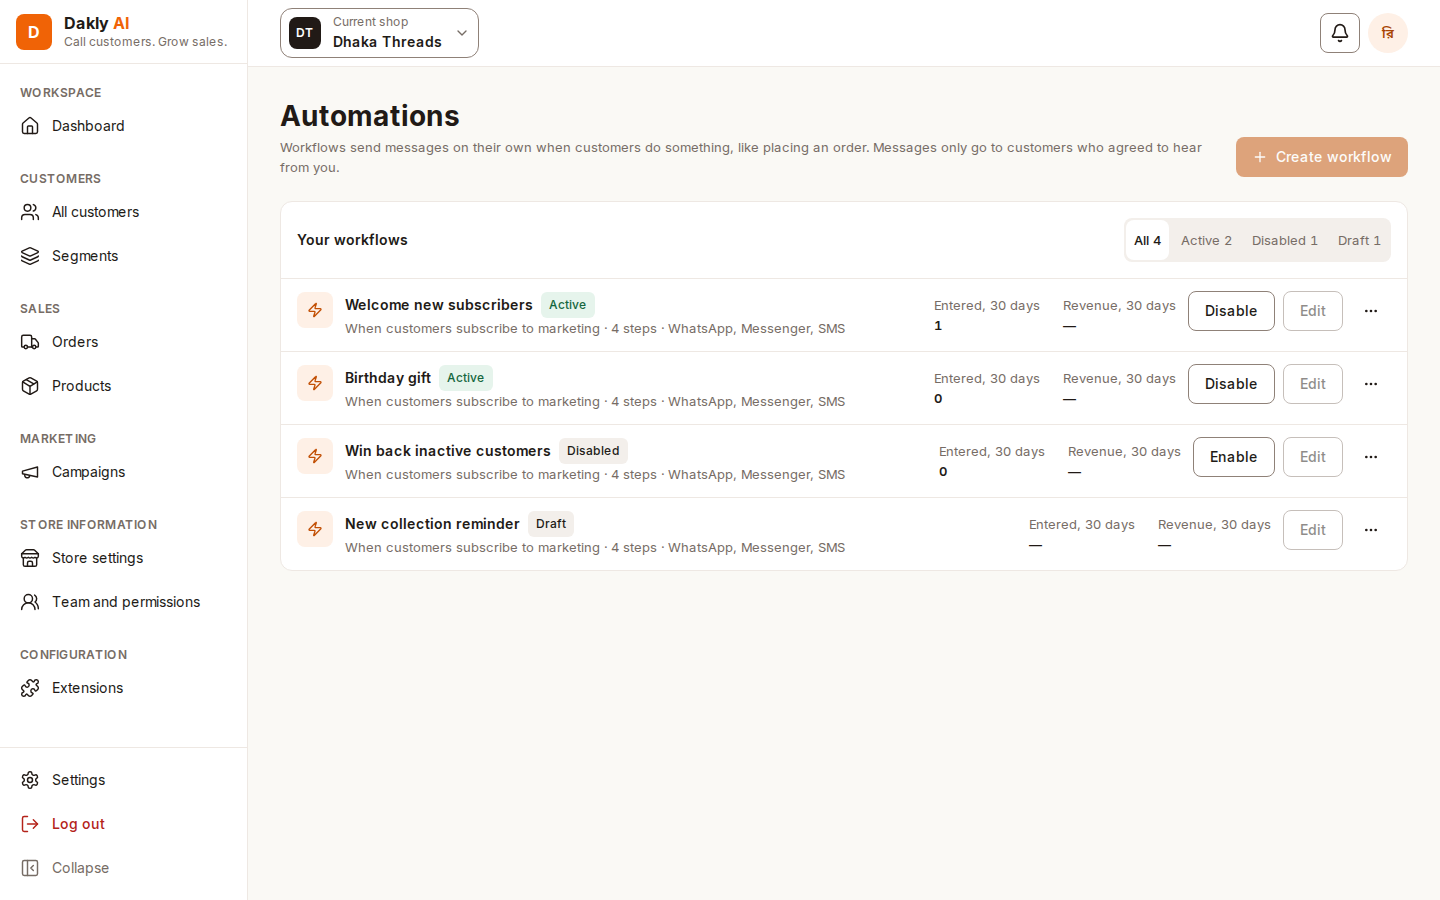
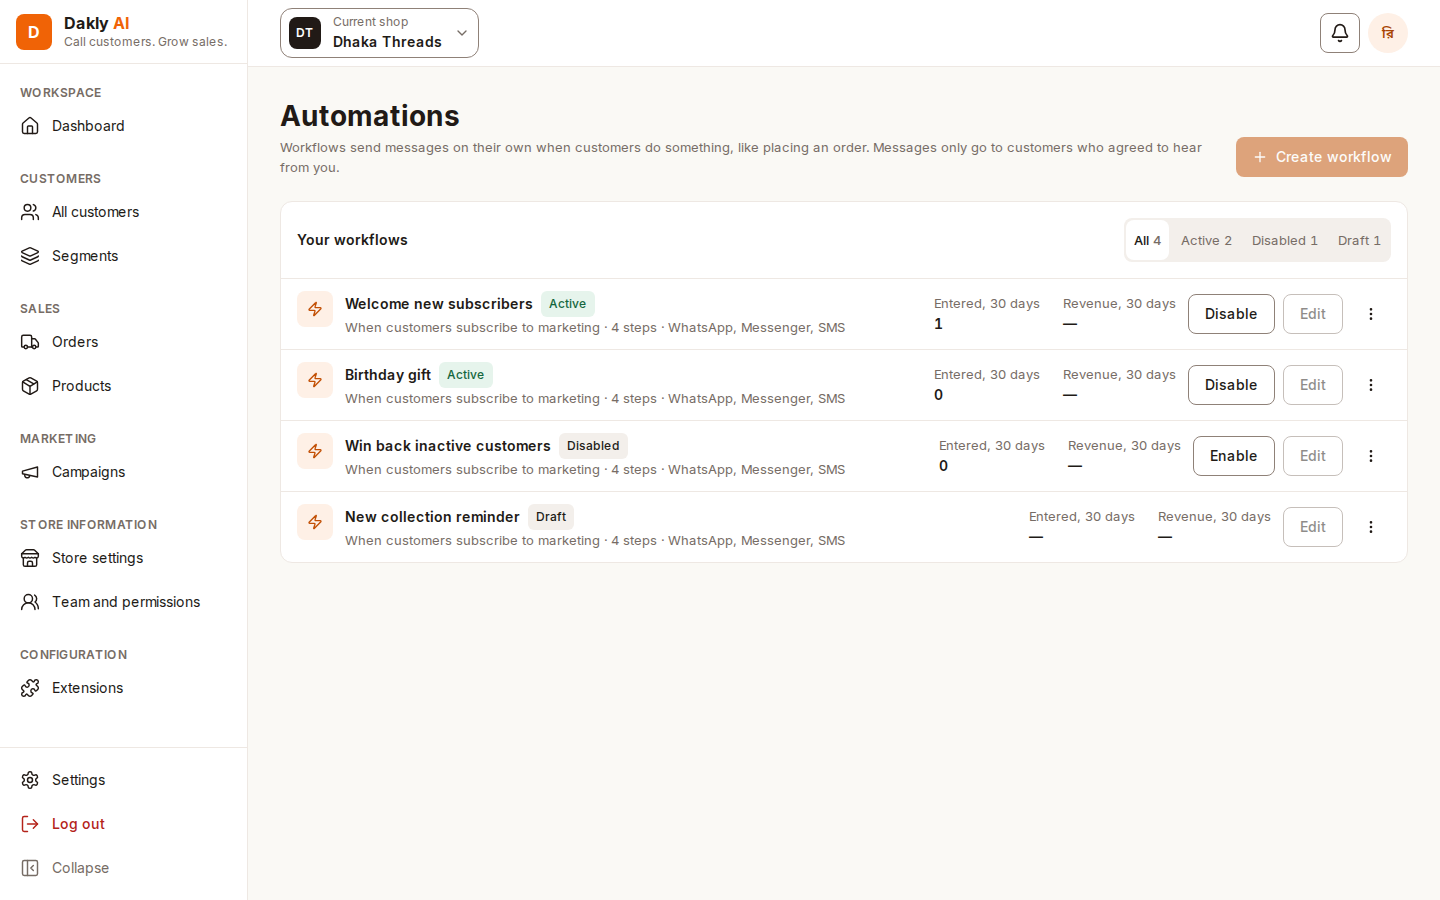
fix(camp-12): separate workflow row actions and match list details

diff --git a/apps/web/src/features/automations/components/automation-row.tsx b/apps/web/src/features/automations/components/automation-row.tsx
@@ -1,6 +1,6 @@
 'use client';
 
-import { Ellipsis, Zap } from 'lucide-react';
+import { EllipsisVertical, Zap } from 'lucide-react';
 import { useState } from 'react';
 
 import type { AutomationListItem } from '@dakly/contracts/automations';
@@ -14,7 +14,7 @@ import {
   DropdownMenuTrigger,
 } from '@dakly/ui/dropdown-menu';
 
-import { useAutomationAction } from '../api/automation-actions';
+import { useChangeAutomationStatus, useDuplicateAutomation } from '../api/automation-actions';
 import { channelLabels, statusLabels, triggerLabels } from '../automation-labels';
 
 export function AutomationRow({
@@ -51,11 +51,13 @@ export function AutomationRow({
       <dl className="grid grid-cols-2 gap-4 text-sm">
         <div>
           <dt className="text-text-muted">Entered, 30 days</dt>
-          <dd className="font-semibold tabular-nums">{draft ? '—' : workflow.enteredLast30Days}</dd>
+          <dd className="text-base font-semibold tabular-nums">
+            {draft ? '—' : workflow.enteredLast30Days}
+          </dd>
         </div>
         <div>
           <dt className="text-text-muted">Revenue, 30 days</dt>
-          <dd className="font-semibold">—</dd>
+          <dd className="text-base font-semibold">—</dd>
         </div>
       </dl>
       {canEdit && <WorkflowActions workflow={workflow} />}
@@ -65,7 +67,9 @@ export function AutomationRow({
 
 function WorkflowActions({ workflow }: { workflow: AutomationListItem }) {
   const [confirm, setConfirm] = useState(false);
-  const action = useAutomationAction();
+  const status = useChangeAutomationStatus();
+  const duplicate = useDuplicateAutomation();
+  const error = status.error ?? duplicate.error;
   const active = workflow.status === 'active';
   const draft = workflow.status === 'draft';
   return (
@@ -74,8 +78,9 @@ function WorkflowActions({ workflow }: { workflow: AutomationListItem }) {
         {!draft && (
           <Button
             variant="secondary"
-            loading={action.isPending && !confirm}
-            onClick={() => action.mutate({ id: workflow.id, action: active ? 'pause' : 'enable' })}
+            loading={status.isPending}
+            disabled={duplicate.isPending}
+            onClick={() => status.mutate({ id: workflow.id, action: active ? 'pause' : 'enable' })}
           >
             {active ? 'Disable' : 'Enable'}
           </Button>
@@ -86,60 +91,48 @@ function WorkflowActions({ workflow }: { workflow: AutomationListItem }) {
 
         <WorkflowMenu
           workflow={workflow}
-          action={action}
-          onDelete={() => {
-            action.reset();
-            setConfirm(true);
-          }}
+          duplicate={duplicate}
+          disabled={status.isPending || duplicate.isPending}
+          onDelete={() => setConfirm(true)}
         />
       </div>
-      {action.isError && !confirm && (
+      {error && (
         <p role="alert" className="text-danger">
-          {action.error.message}
+          {error.message}
         </p>
       )}
-      <DeleteWorkflow
-        workflow={workflow}
-        action={action}
-        open={confirm}
-        onClose={() => setConfirm(false)}
-      />
+      {confirm && <DeleteWorkflow workflow={workflow} onClose={() => setConfirm(false)} />}
     </div>
   );
 }
 
 function WorkflowMenu({
   workflow,
-  action,
+  duplicate,
+  disabled,
   onDelete,
 }: {
   workflow: AutomationListItem;
-  action: ReturnType<typeof useAutomationAction>;
+  duplicate: ReturnType<typeof useDuplicateAutomation>;
+  disabled: boolean;
   onDelete: () => void;
 }) {
   return (
     <DropdownMenu>
-      <DropdownMenuTrigger asChild disabled={action.isPending}>
+      <DropdownMenuTrigger asChild disabled={disabled}>
         <Button
           variant="secondary"
           aria-label={`Actions for ${workflow.name}`}
           className="border-transparent px-2"
         >
-          <Ellipsis size={16} aria-hidden="true" />
+          <EllipsisVertical size={16} aria-hidden="true" />
         </Button>
       </DropdownMenuTrigger>
       <DropdownMenuContent>
-        <DropdownMenuItem
-          disabled={action.isPending}
-          onSelect={() =>
-            action.mutate({
-              draft: { name: `${workflow.name.slice(0, 75)} copy`, graph: workflow.graph },
-            })
-          }
-        >
+        <DropdownMenuItem disabled={disabled} onSelect={() => duplicate.mutate(workflow)}>
           Duplicate
         </DropdownMenuItem>
-        <DropdownMenuItem disabled={action.isPending} onSelect={onDelete}>
+        <DropdownMenuItem disabled={disabled} onSelect={onDelete}>
           Delete
         </DropdownMenuItem>
       </DropdownMenuContent>
@@ -149,34 +142,31 @@ function WorkflowMenu({
 
 function DeleteWorkflow({
   workflow,
-  action,
-  open,
   onClose,
 }: {
   workflow: AutomationListItem;
-  action: ReturnType<typeof useAutomationAction>;
-  open: boolean;
   onClose: () => void;
 }) {
+  const archive = useChangeAutomationStatus();
   return (
     <Dialog
-      open={open}
-      onClose={() => onClose()}
-      closeDisabled={action.isPending}
+      open
+      onClose={onClose}
+      closeDisabled={archive.isPending}
       title={`Delete ${workflow.name}?`}
     >
       <Button
         variant="danger"
-        loading={action.isPending}
+        loading={archive.isPending}
         onClick={() =>
-          action.mutate({ id: workflow.id, action: 'archive' }, { onSuccess: () => onClose() })
+          archive.mutate({ id: workflow.id, action: 'archive' }, { onSuccess: () => onClose() })
         }
       >
         Delete workflow
       </Button>
-      {action.isError && (
+      {archive.isError && (
         <p role="alert" className="mt-3 text-danger">
-          {action.error.message}
+          {archive.error.message}
         </p>
       )}
     </Dialog>

diff --git a/apps/web/src/features/automations/api/automation-actions.ts b/apps/web/src/features/automations/api/automation-actions.ts
@@ -1,23 +1,35 @@
 import { useMutation, useQueryClient } from '@tanstack/react-query';
 
-import type { AutomationResponse, CreateAutomationInput } from '@dakly/contracts/automations';
+import {
+  AUTOMATION_NAME_MAX,
+  type AutomationListItem,
+  type AutomationResponse,
+} from '@dakly/contracts/automations';
 
 import { automationKeys } from './automations';
 import { useStoreRequest } from '@/lib/store-request';
 
-export function useAutomationAction() {
+export function useChangeAutomationStatus() {
   const { contextTag, request } = useStoreRequest();
   const client = useQueryClient();
   return useMutation({
-    mutationFn: (
-      input:
-        { id: string; action: 'enable' | 'pause' | 'archive' } | { draft: CreateAutomationInput },
-    ) =>
-      'draft' in input
-        ? request<AutomationResponse>('/automations', { method: 'POST', body: input.draft })
-        : request<AutomationResponse | undefined>(`/automations/${input.id}/${input.action}`, {
-            method: 'POST',
-          }),
+    mutationFn: ({ id, action }: { id: string; action: 'enable' | 'pause' | 'archive' }) =>
+      request(`/automations/${id}/${action}`, { method: 'POST' }),
+    onSuccess: () => client.invalidateQueries({ queryKey: automationKeys.all(contextTag) }),
+  });
+}
+
+export function useDuplicateAutomation() {
+  const { contextTag, request } = useStoreRequest();
+  const client = useQueryClient();
+  return useMutation({
+    mutationFn: ({ name, graph }: Pick<AutomationListItem, 'name' | 'graph'>) => {
+      const suffix = ' copy';
+      return request<AutomationResponse>('/automations', {
+        method: 'POST',
+        body: { name: name.slice(0, AUTOMATION_NAME_MAX - suffix.length) + suffix, graph },
+      });
+    },
     onSuccess: () => client.invalidateQueries({ queryKey: automationKeys.all(contextTag) }),
   });
 }

diff --git a/apps/web/e2e/automation-list.spec.ts b/apps/web/e2e/automation-list.spec.ts
@@ -90,6 +90,35 @@ test('lists workflows, counts recent entries and switches tabs and status', asyn
     await page.getByRole('tab', { name: 'Disabled 2' }).click();
     await welcome.getByRole('button', { name: 'Enable' }).click();
     await expect(page.getByRole('tab', { name: 'Disabled 1' })).toBeVisible();
+    await page.getByRole('tab', { name: 'All 4' }).click();
+    let releaseCopy!: () => void;
+    const copyGate = new Promise<void>((resolve) => {
+      releaseCopy = resolve;
+    });
+    await page.route('**/api/automations', async (route) => {
+      if (route.request().method() === 'POST') await copyGate;
+      await route.continue();
+    });
+    const copied = page.waitForResponse(
+      (response) =>
+        response.url().endsWith('/api/automations') && response.request().method() === 'POST',
+    );
+    await welcome.getByRole('button', { name: `Actions for ${active.name}` }).click();
+    try {
+      await page.getByRole('menuitem', { name: 'Duplicate' }).click();
+      const disable = welcome.getByRole('button', { name: 'Disable' });
+      await expect(disable).toBeDisabled();
+      await expect(disable).not.toHaveAttribute('aria-busy', 'true');
+    } finally {
+      releaseCopy();
+    }
+    const copy: AutomationResponse = await (await copied).json();
+    ids.push(copy.id);
+    await page.getByRole('tab', { name: 'Draft 2' }).click();
+    await page.getByRole('button', { name: `Actions for ${copy.name}` }).click();
+    await page.getByRole('menuitem', { name: 'Delete' }).click();
+    await page.getByRole('dialog').getByRole('button', { name: 'Delete workflow' }).click();
+    await expect(page.getByRole('tab', { name: 'Draft 1' })).toBeVisible();
   } finally {
     await db.pool.query('delete from automation_runs where automation_id=any($1::uuid[])', [ids]);
     await db.pool.query(

diff --git a/apps/web/src/features/automations/components/automations-screen.tsx b/apps/web/src/features/automations/components/automations-screen.tsx
@@ -55,7 +55,9 @@ export function AutomationsScreen() {
                   className="m-0 rounded-md border-0 px-2 text-sm data-[state=active]:bg-surface"
                 >
                   {label}
-                  {workflows.data && <span className="ml-1 tabular-nums">{count}</span>}
+                  {workflows.data && (
+                    <span className="ml-1 text-text-muted tabular-nums">{count}</span>
+                  )}
                 </TabsTrigger>
               );
             })}
@@ -63,9 +65,7 @@ export function AutomationsScreen() {
         </header>
         {tabs.map(({ key }) => (
           <TabsContent key={key} value={key} className="pt-0">
-            {key === selected && (
-              <WorkflowList workflows={workflows} items={selectedItems} canEdit={canEdit} />
-            )}
+            <WorkflowList workflows={workflows} items={selectedItems} canEdit={canEdit} />
           </TabsContent>
         ))}
       </Tabs>

diff --git a/packages/contracts/src/automations.ts b/packages/contracts/src/automations.ts
@@ -29,8 +29,9 @@ export type AutomationExitReason = (typeof automationExitReasons)[number];
 export type AutomationStepKind = (typeof automationStepKinds)[number];
 
 export const MAX_AUTOMATIONS_PER_STORE = 100;
+export const AUTOMATION_NAME_MAX = 80;
 
-const automationNameSchema = z.string().trim().min(1).max(80);
+const automationNameSchema = z.string().trim().min(1).max(AUTOMATION_NAME_MAX);
 
 export const createAutomationSchema = z.strictObject({
   name: automationNameSchema,
